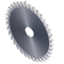
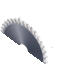
add fleau

diff --git a/FiniteStateMachine/Map.cpp b/FiniteStateMachine/Map.cpp
@@ -6,7 +6,7 @@
 Map::Map() : m_tileSprite(m_texGrass) {
 
     if (!m_texGrass.loadFromFile("../Asset/grass2.png") ||
-        !m_texRoad.loadFromFile("../Asset/grass2.png") ||
+        !m_texRoad.loadFromFile("../Asset/rails.png") ||
         !m_texTree.loadFromFile("../Asset/arbre.png") ||
         !m_texTree2.loadFromFile("../Asset/arbre2.png") ||
         !m_texTree3.loadFromFile("../Asset/arbre3.png") ||
@@ -88,8 +88,8 @@ void Map::draw(sf::RenderWindow& window) {
         for (int x = 0; x < (int)m_grid[y].size(); ++x) {
 
             int type = m_grid[y][x];
-            if (type == 0 || type == 3) m_tileSprite.setTexture(m_texGrass, true);
-            else if (type == 1 || type == 4) m_tileSprite.setTexture(m_texRoad, true);
+            if (type == 0 || type == 3 || type == 4) m_tileSprite.setTexture(m_texGrass, true);
+            else if (type == 1) m_tileSprite.setTexture(m_texRoad, true);
             else if (type == 2) m_tileSprite.setTexture(m_texWater, true);
 
             m_tileSprite.setOrigin({ 32.f, 32.f });

diff --git a/FiniteStateMachine/GameScene.h b/FiniteStateMachine/GameScene.h
@@ -23,6 +23,7 @@ private:
     Map m_map;
 
     sf::Texture m_texCar; 
+    sf::Texture m_texFleau;
     std::vector<Obstacle> m_cars; 
     float m_spawnTimer = 0.f;
 	float m_logTimer = 0.f;
